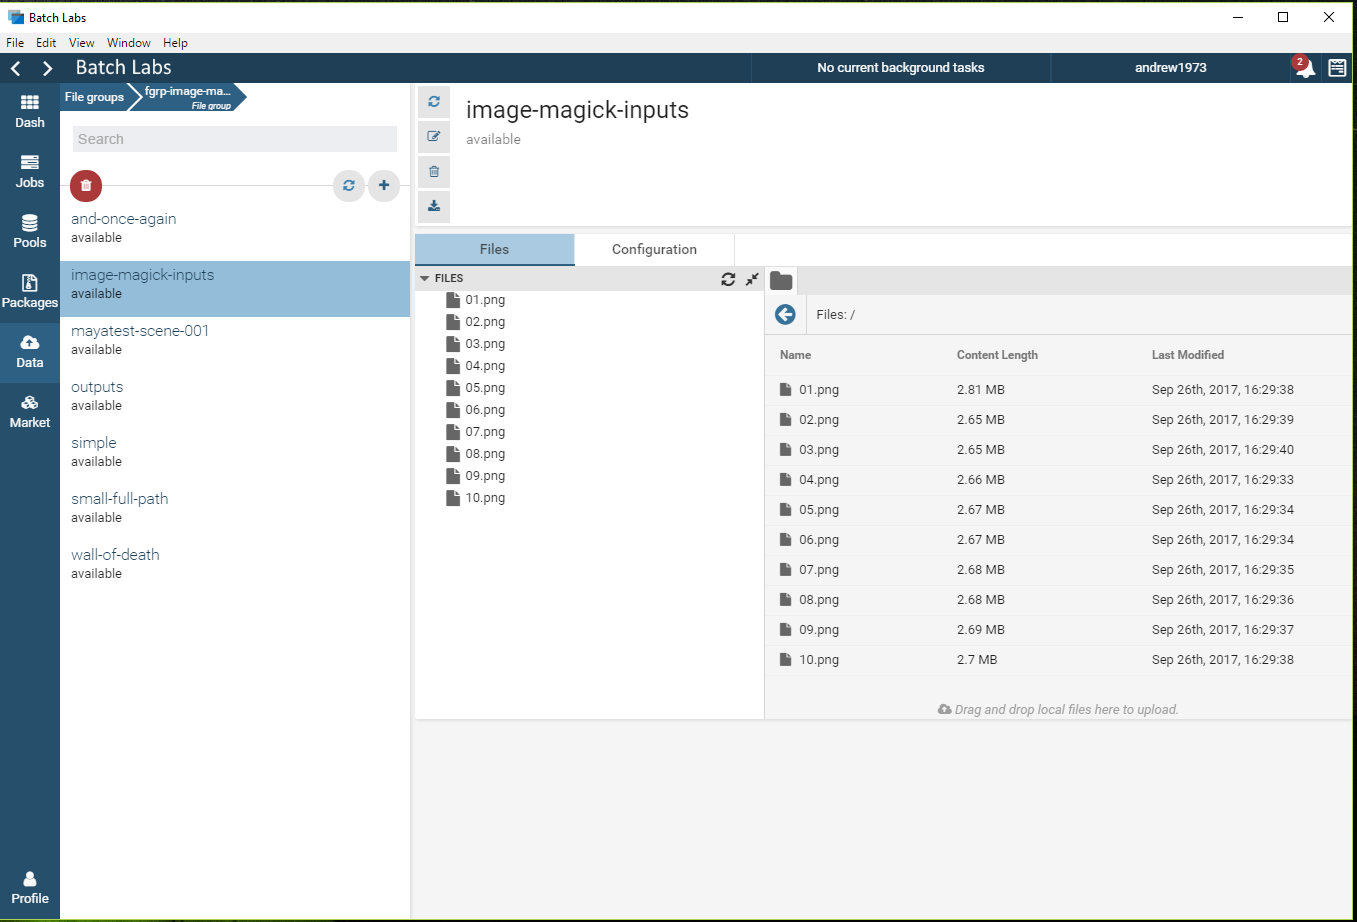
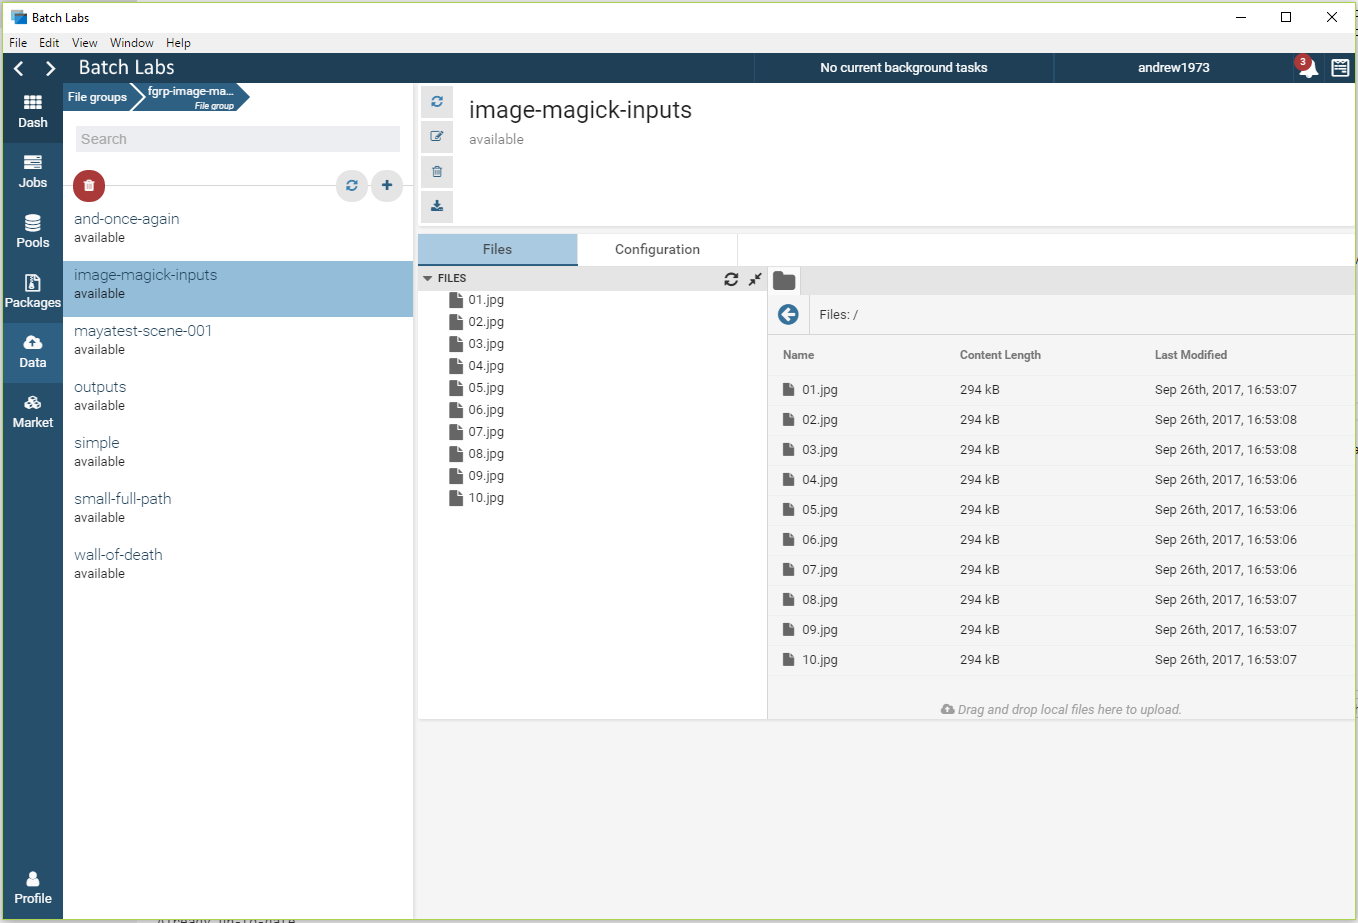
readme updates

diff --git a/ncj/imagemagick/Readme.md b/ncj/imagemagick/Readme.md
@@ -53,11 +53,11 @@ You can see more information about the various Azure virtual machine sizes [here
 
 For the job name either keep the default or enter something meaningful.
 
-For the Input Filegroup select the 'image-magick-inputs' filegroup that you created earlier.
+For the Input file group select the 'image-magick-inputs' file group that you created earlier.
 
 Enter the percentage you would like the images resized by. In this instance we are entering 50, as in reduce in size by 50%.
 
-For the output filegroup we'll re-use the existing 'image-magick-inputs' filegroup.  This is the location output images and logs are uploaded to. I would generally have a filegroup called outputs that i use as a default output container. All outputs from this job will be uploaded into a folder within this filegroup with the name of the job.
+For the output file group we'll re-use the existing 'image-magick-inputs' file group.  This is the location that output images and logs are uploaded to. I would generally have a file group called outputs that i use as a default output container. All outputs from this job will be uploaded into a folder within this file group with the name of the job.
 
 Click the Submit button to start the job.
 
@@ -66,19 +66,24 @@ Click the Submit button to start the job.
 
 At this point you can monitor the job and task(s) for completion.
 
+The job will take some time to start as the auto pool needs to be created and the nodes brought online. A pool will normally take between 5 and 10 minutes to completely come online. You can see from the below screenshot that the 2 nodes in the pool will cost approximately 67 cents an hour (NZD) to run.
+
+![View Pool](images/autopool.png)
+
 Navigate to 'Jobs -> image-magick-resize', or whatever you called your job.
 
 Here you will see all the job's tasks and their current state. By clicking on a task you can view its execution information and log files.  You can even terminate a task, or the entire job, if you have made a mistake. You can use the log files here to investigate any potential issues with the task.
 
-![View Job](images/ViewJob.png)
+![View Job](images/viewjob.png)
 
+Once completed, the auto pool will be deleted.
 
 ### 4. View and Download the outputs
 
-When a task completes, it will upload it's log files and the resized outputs to the output filegroup specified previously.
+When a task completes, it will upload it's log files and the resized outputs to the output file group specified previously.
 
-In this case you can navigate to the 'image-magick-inputs' filegroup and see the resized images in the folder that matches the job's name. You will also find the task log files in the logs subdirectory.
+In this case you can navigate to the 'image-magick-inputs' file group and see the resized images in the folder that matches the job's name. You will also find the task log files in the logs subdirectory.
 
-![View Filegroup outputs](images/ViewFilegroupOutputs.png)
+![View Filegroup outputs](images/outputs.png)
 
-The output files will look the same as the inpurt files, only they will be 50% smaller than the ones you uploaded.
+The output files will look the same as the input files, only they will be 50% smaller than the ones you uploaded. Uploaded size was 1600 x 1200 (294kB) and after the resize operation they were 800 x 600 (65kB)
